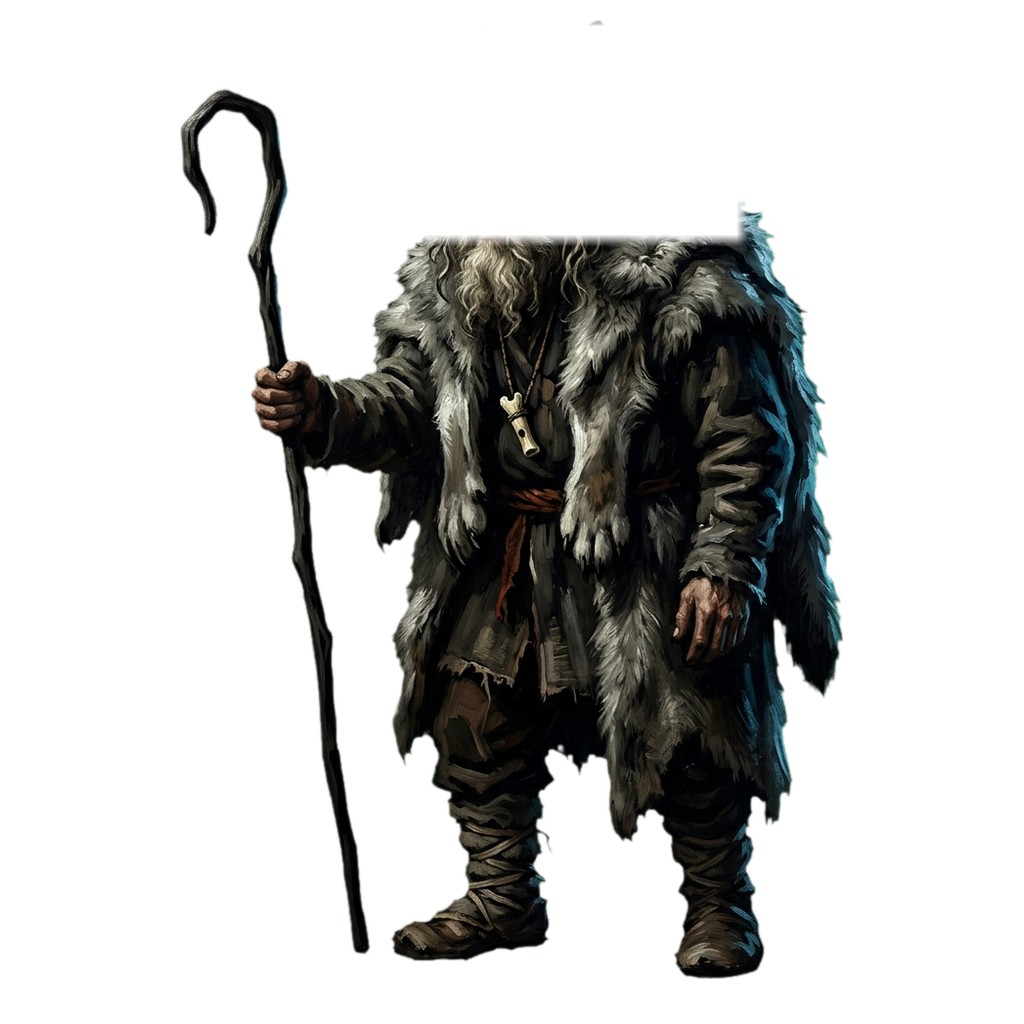
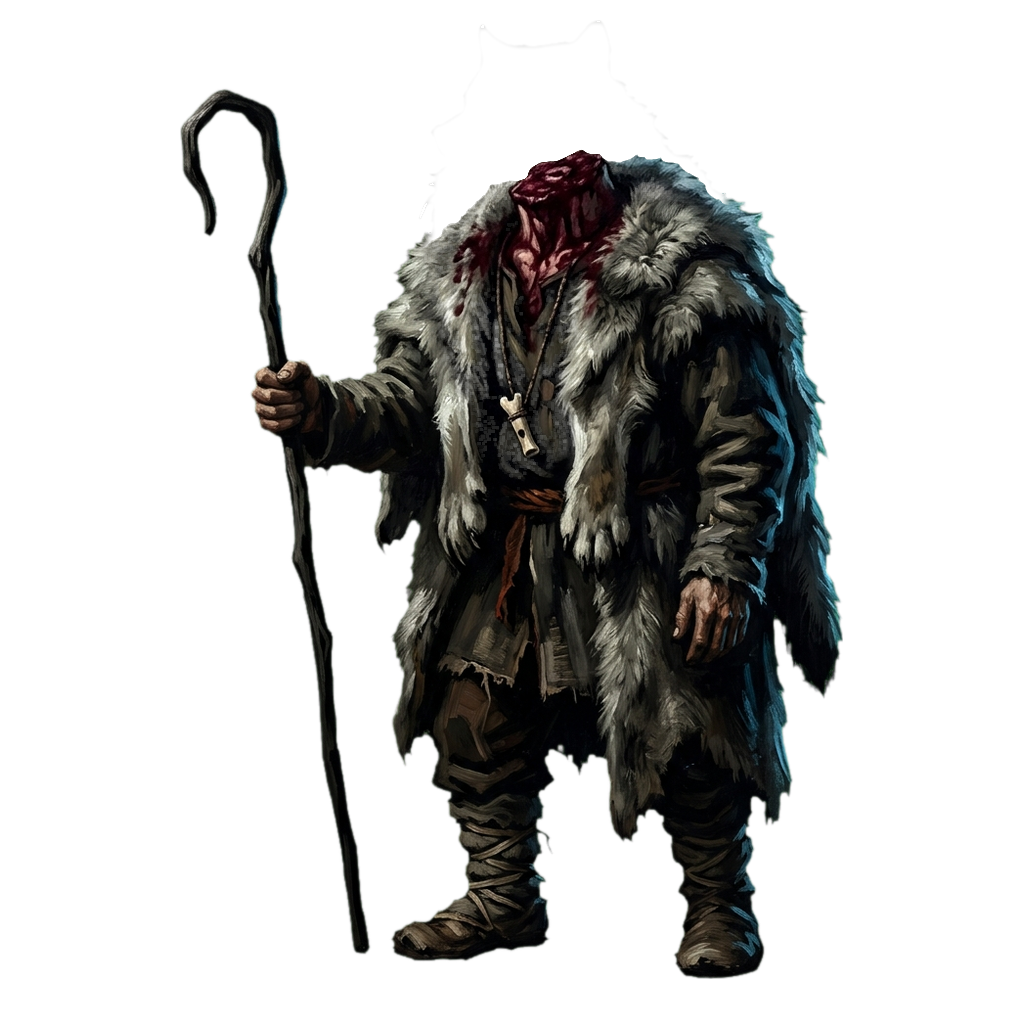
The wolf herder's rig painted in Flow

Changed region(s): [[0.4062, 0.125, 0.75, 0.4688]]

diff --git a/crates/game/src/battle/rig.rs b/crates/game/src/battle/rig.rs
@@ -160,7 +160,7 @@ const FIGURES: &[(&str, &[Cut])] = &[
     ("enemies/tugarin", &[(Part::Head, Vec2::new(0.477, 0.214), 1.0)]),
     ("enemies/black_volhv", &[(Part::Head, Vec2::new(0.527, 0.18), 1.0)]),
     ("enemies/vedmak", &[(Part::Head, Vec2::new(0.47, 0.21), 1.0)]),
-    ("enemies/wolf_herder", &[(Part::Head, Vec2::new(0.557, 0.234), 1.0)]),
+    ("enemies/wolf_herder", &[(Part::Head, Vec2::new(0.54, 0.21), 1.0)]),
     ("enemies/spinner", &[(Part::Head, Vec2::new(0.527, 0.302), 1.0)]),
     ("enemies/upyr_knyaz", &[(Part::Head, Vec2::new(0.495, 0.178), 1.0)]),
     ("enemies/miller", &[(Part::Head, Vec2::new(0.515, 0.19), 1.0)]),
